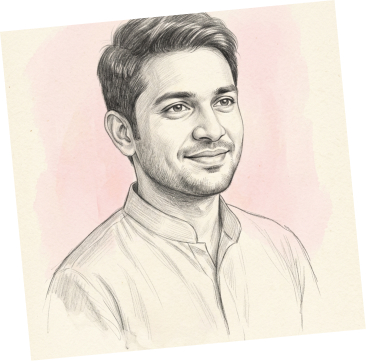
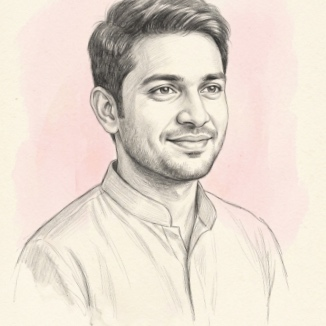
Close the band under the bottom nav, and straighten the sketch
The gap below the nav was never a layout gap: body carried the colour of the
TOP of the screen, and body is the box that shows wherever 100dvh resolves
short — so the strip came out cream on Today and white on the report. Body
now takes the bottom bar's own colour and the status-bar strip is painted by
.phone instead, via --topc.

The partner sketch was tilted ~5.5deg inside its own JPG, against the card's
2deg, which left white wedges in the corners of the photo. De-rotated and
cropped square in the asset. The caption under it was inset 12px on the right
and flush on the left; it is centred now, with the rule spanning the sketch.

Also a hairline between the rating row and "About this report", so the jump
from the centred card to the left-ranged column reads as deliberate.

diff --git a/index.html b/index.html
@@ -18,7 +18,7 @@
      The manifest deliberately carries NO theme_color: that key, not the
      manifest itself, is what makes iOS 16.4+ paint its own opaque status bar
      and ignore black-translucent. -->
-<link rel="manifest" href="manifest.webmanifest?v=202610221750">
+<link rel="manifest" href="manifest.webmanifest?v=202610221813">
 <!-- PNG, not SVG. iOS ignores an SVG apple-touch-icon and SVG manifest icons
      outright, and an un-iconable manifest is one iOS can decline — dropping the
      app back onto the legacy apple-* path, which is the path that hands it a
@@ -30,8 +30,8 @@
 <link rel="preconnect" href="https://fonts.googleapis.com">
 <link rel="preconnect" href="https://fonts.gstatic.com" crossorigin>
 <link rel="stylesheet" href="https://fonts.googleapis.com/css2?family=Inter:wght@400;500;600;700&family=Cormorant+Infant:wght@600;700&family=Noto+Sans+Devanagari:wght@400;500;600;700&display=swap">
-<link rel="stylesheet" href="styles.css?v=202610221750">
-<link rel="stylesheet" href="mobile.css?v=202610221750">
+<link rel="stylesheet" href="styles.css?v=202610221813">
+<link rel="stylesheet" href="mobile.css?v=202610221813">
 </head>
 <body>
 
@@ -265,7 +265,7 @@
             <!-- Versioned like the stylesheets. The file keeps its name when the
                  clip is recut, so without this an installed home-screen app goes
                  on playing whichever take it cached the day it was added. -->
-            <source src="assets/r2-hero.mp4?v=202610221750" type="video/mp4">
+            <source src="assets/r2-hero.mp4?v=202610221813" type="video/mp4">
           </video>
           <!-- The painted cover, standing closed. The open-book drawing is gone:
                it was a stock illustration of a book, not this report. -->
@@ -481,7 +481,7 @@
         <div class="rp-hero">
           <div class="paper preview">
             <div class="paper-art">
-              <img src="assets/sketch.jpg" alt="Sketch of your future partner, blurred">
+              <img src="assets/sketch.jpg?v=202610221813" alt="Sketch of your future partner, blurred">
               <span class="pv-badge">PREVIEW</span>
             </div>
             <div class="paper-foot">
@@ -667,7 +667,7 @@
         <div class="rp-hero">
           <div class="paper">
             <div class="paper-art">
-              <img src="assets/sketch.jpg" alt="Sketch of your future partner">
+              <img src="assets/sketch.jpg?v=202610221813" alt="Sketch of your future partner">
             </div>
             <div class="paper-foot">
               <div><small>7TH LORD</small><b>Venus · 9th house</b></div>
@@ -851,8 +851,8 @@
 </div><!-- /.phone -->
 </main>
 
-<script src="data.js?v=202610221750"></script>
-<script src="app.js?v=202610221750"></script>
-<script src="mobile.js?v=202610221750"></script>
+<script src="data.js?v=202610221813"></script>
+<script src="app.js?v=202610221813"></script>
+<script src="mobile.js?v=202610221813"></script>
 </body>
 </html>

diff --git a/styles.css b/styles.css
@@ -1170,7 +1170,16 @@ hr.thin{border:0;border-top:1px solid var(--g200);margin:12px 0}
 /* The card hangs 20px into this block, so 24px of padding left almost nothing
    between the stats row and "About this report". This is the first breath after
    the hero and it has to read as one. */
-.r2-card + .r2-block{padding-top:48px}
+.r2-card + .r2-block{padding-top:48px;position:relative}
+/* A hairline between the rating row and "About this report". Everything in the
+   card is centred and everything below it is ranged left, and with nothing
+   marking the change the left edge looked like the centred block had slipped
+   off its axis. The rule makes the two read as two blocks rather than one
+   badly aligned one. Positioned 28px down because the card hangs 20px into
+   this section — measured off the live page, that puts it 8px clear of the
+   card's bottom edge and 20px above the heading. */
+.r2-card + .r2-block::before{content:'';position:absolute;left:16px;right:16px;
+  top:28px;height:1px;background:var(--g200)}
 /* The upsells are a different kind of thing from the sections above them — a
    rule there reads as "one more section", which is the wrong promise. */
 #r2Also{border-top:0;padding-top:8px}
@@ -1391,8 +1400,16 @@ hr.thin{border:0;border-top:1px solid var(--g200);margin:12px 0}
    under the foot is what holds it off the last value — it was sitting on the
    final character of "Mar – Nov 2027". 12px on the right does the same job
    horizontally. */
-.paper-foot{display:flex;align-items:flex-start;gap:14px;
-  padding:13px 12px 26px 0;border-top:1px solid #D1C2B2;text-align:left}
+/* No side padding, and the two cells pushed to the edges. It used to carry
+   padding-right:12 with the cells packed left, so the caption sat 12px inside
+   the sketch on the right and flush with it on the left, and the rule above it
+   stopped short of the sketch's right edge — the whole caption read as having
+   slipped left off the photo. Now the rule spans the sketch exactly and the two
+   cells sit centred under it — centred rather than spread to the edges because
+   the two captions are different lengths, and spreading them put the hairline
+   between them well off the middle. */
+.paper-foot{display:flex;align-items:flex-start;justify-content:center;gap:16px;
+  padding:13px 0 26px;border-top:1px solid #D1C2B2;text-align:left}
 .paper-foot > div{flex:0 1 auto;min-width:0}
 .paper-foot i{flex:none;width:1px;height:34px;background:#D1C2B2;opacity:.7}
 .paper-foot small{display:block;white-space:nowrap;

diff --git a/mobile.css b/mobile.css
@@ -12,7 +12,10 @@
      above the home indicator. index.html links the manifest now, which is the
      actual fix; nothing here needs to compensate for anything. */
   html,body{overscroll-behavior:none}
-  body{background:#FBE4D7}
+  /* The pre-JS ground, replaced inline by tint() on the first frame. White, not
+     the peach: every bottom bar in the app is white, so white is the colour that
+     disappears under the nav if the box ever comes up short. */
+  body{background:#fff}
   /* Every bottom bar, sticky button and sheet pads itself by
      calc(own padding + var(--sab)), and --sab defaults to
      env(safe-area-inset-bottom) — 34px on a notched iPhone, stacked on top of
@@ -31,14 +34,22 @@
   .phone{
     /* width:100%, not auto: the desktop rule centres the frame in a grid stage,
        and every child of .phone is absolutely positioned, so an auto width has
-       no in-flow content to measure and collapses the whole app to 0. */
+       no in-flow content to measure and collapses the whole app to 0.
+       !important on the heights because the desktop rule sets a max-height and a
+       fixed height on the same element, and this is the build that has to win:
+       astrochat-daily-reward, which sits flush on her phone, writes them the
+       same way. */
     position:relative;
-    width:100%;max-width:none;height:100dvh;min-height:100dvh;max-height:none;
+    width:100%;max-width:none;max-height:none;
+    height:100dvh!important;min-height:100dvh!important;
     border-radius:0;box-shadow:none;
     /* .phone is the whole viewport here, so plain white would cover body —
-       including the safe-area strip. Paint white only below the inset. */
+       including the safe-area strip. The strip gets the live top colour that
+       mobile.js writes into --topc; white starts below the inset. Painting the
+       strip here rather than on body is what frees body to carry the bottom
+       bar's colour instead, so nothing cream or white can show under the nav. */
     background:transparent;
-    background-image:linear-gradient(to bottom,transparent var(--sbh),#fff var(--sbh));
+    background-image:linear-gradient(to bottom,var(--topc,#fff) var(--sbh),#fff var(--sbh));
     /* The real notch inset replaces the fake status bar's height. */
     --sbh:env(safe-area-inset-top,0px);
   }

diff --git a/mobile.js b/mobile.js
@@ -95,11 +95,23 @@
     var bar = bars[bars.length - 1];
     return (bar && hex(getComputedStyle(bar).backgroundColor)) || '#FFFFFF';
   }
+  /* <html> and <body> are both painted in the foot colour, and the top colour
+     goes on .phone instead, as the first stop of the gradient it already paints
+     in the safe-area strip.
+     Body used to take the top colour, and body is the box that actually shows
+     under a short .phone — so every time 100dvh resolved shorter than the real
+     window, the band under the bottom bar came out in the colour of the top of
+     the screen: cream under the Today nav, white under the report's. That band
+     is the "gap" the nav never seemed to close. Now whatever is behind the app
+     is the bar's own colour, so a short box is invisible rather than a stripe,
+     and the strip at the top is painted by the element that owns it. */
   function tint() {
-    var c = topColour();
+    var c = topColour(), f = footColour();
     tc.setAttribute('content', c);
-    document.documentElement.style.background = footColour();
-    document.body.style.background = c;
+    document.documentElement.style.background = f;
+    document.body.style.background = f;
+    var ph = document.getElementById('phone');
+    if (ph) ph.style.setProperty('--topc', c);
   }
   document.querySelectorAll('.screen').forEach(function (s) {
     var sc = s.querySelector('[data-scroll]');
